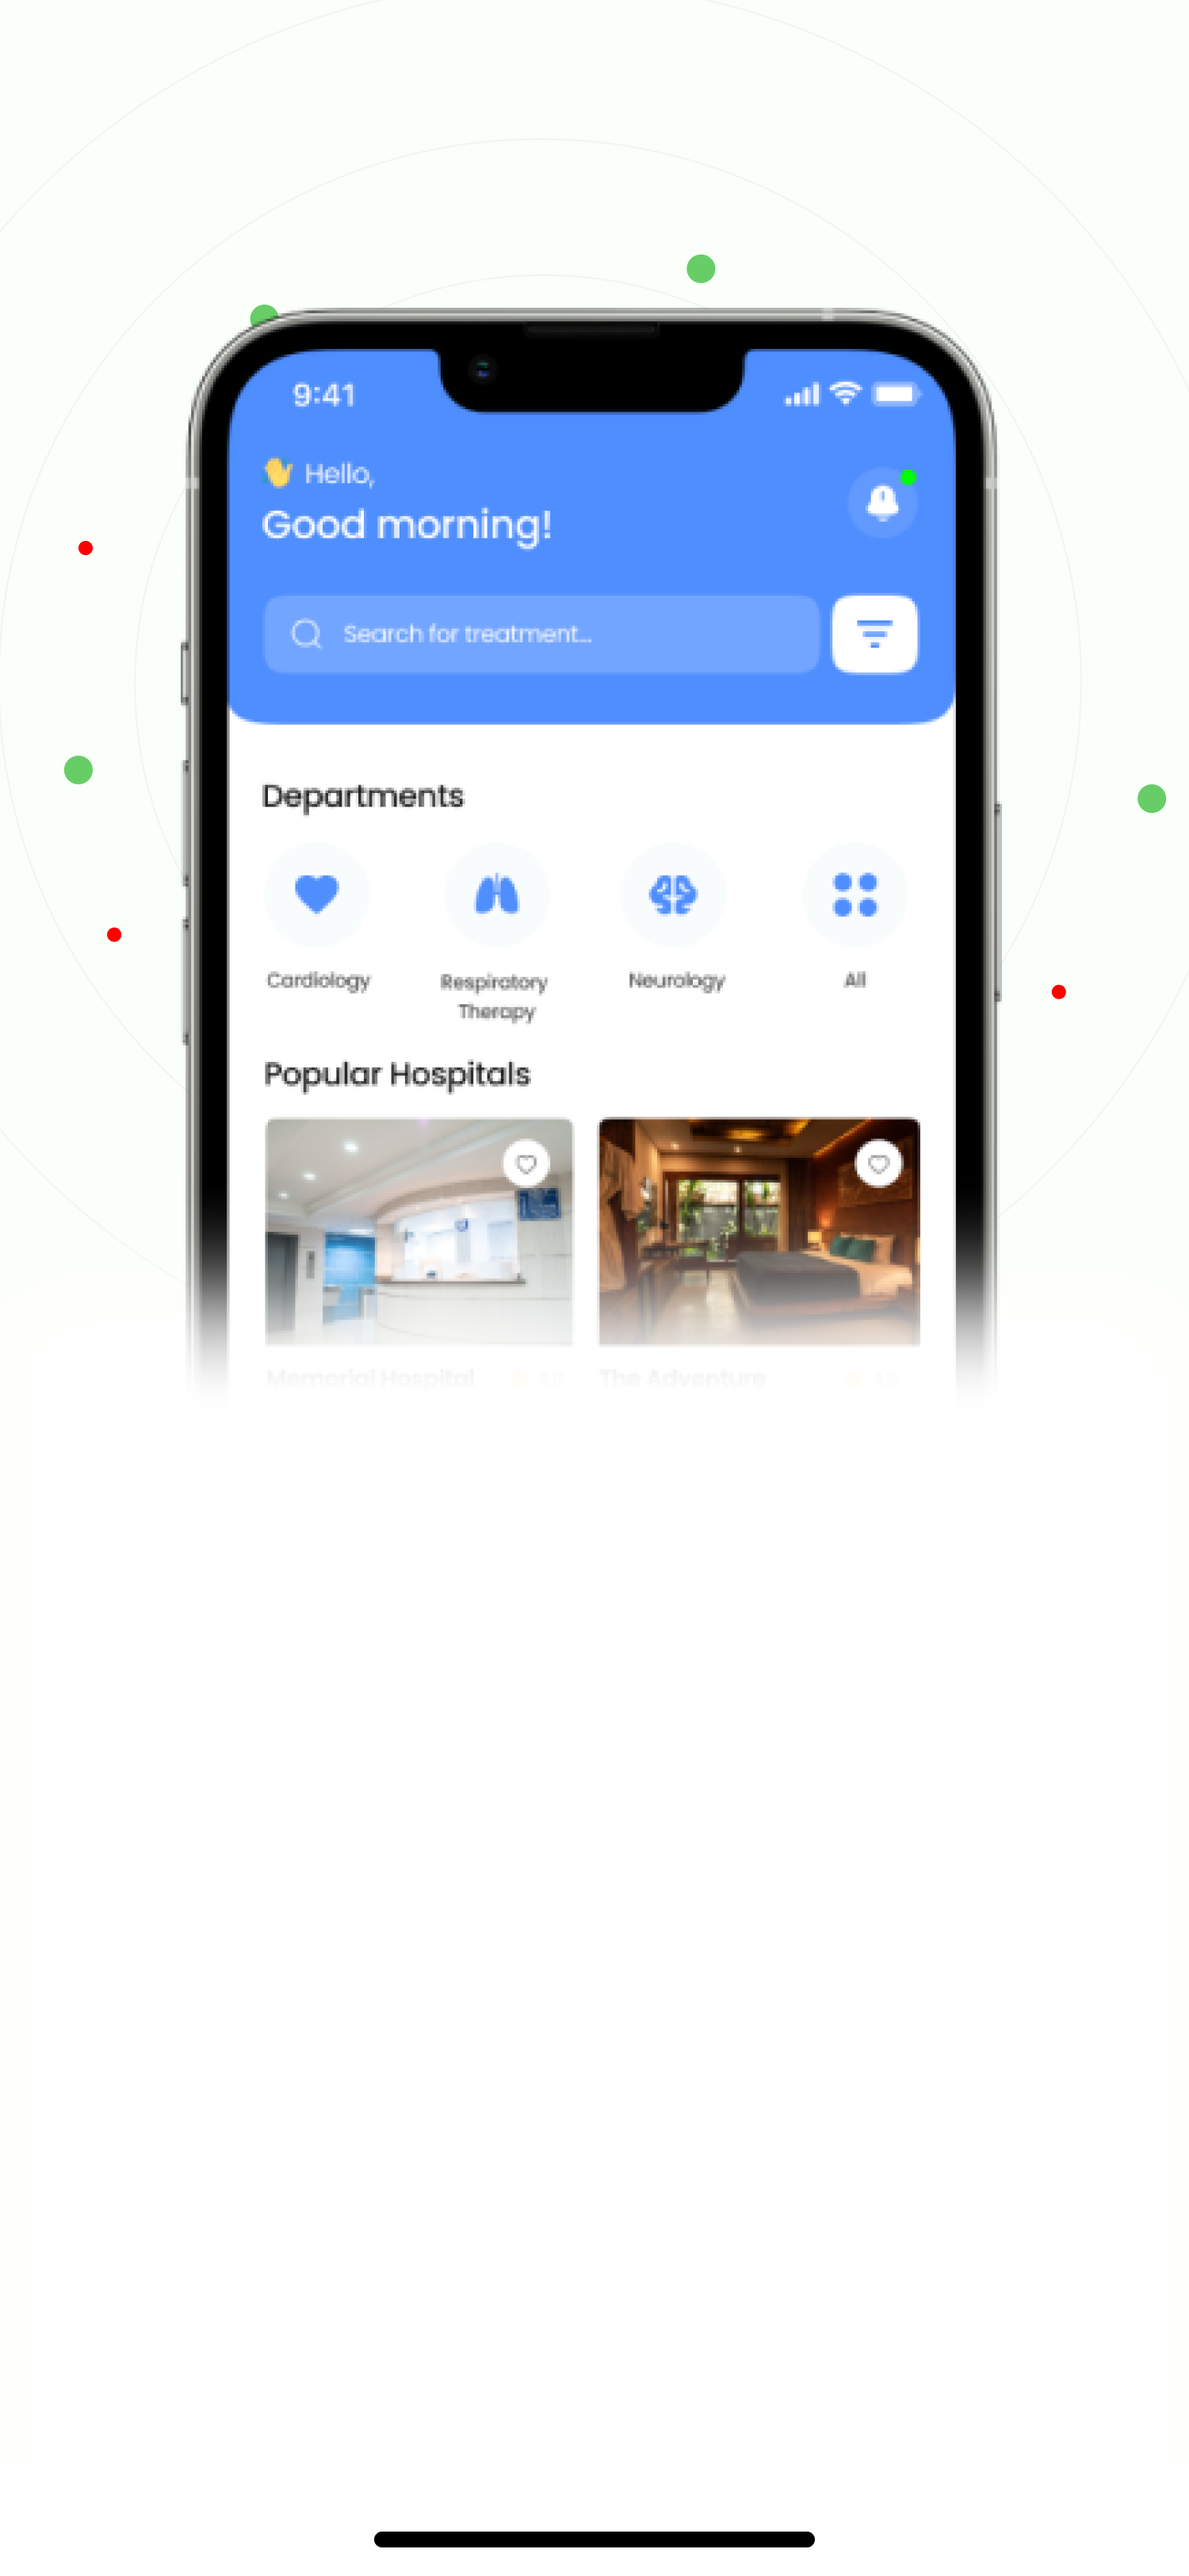
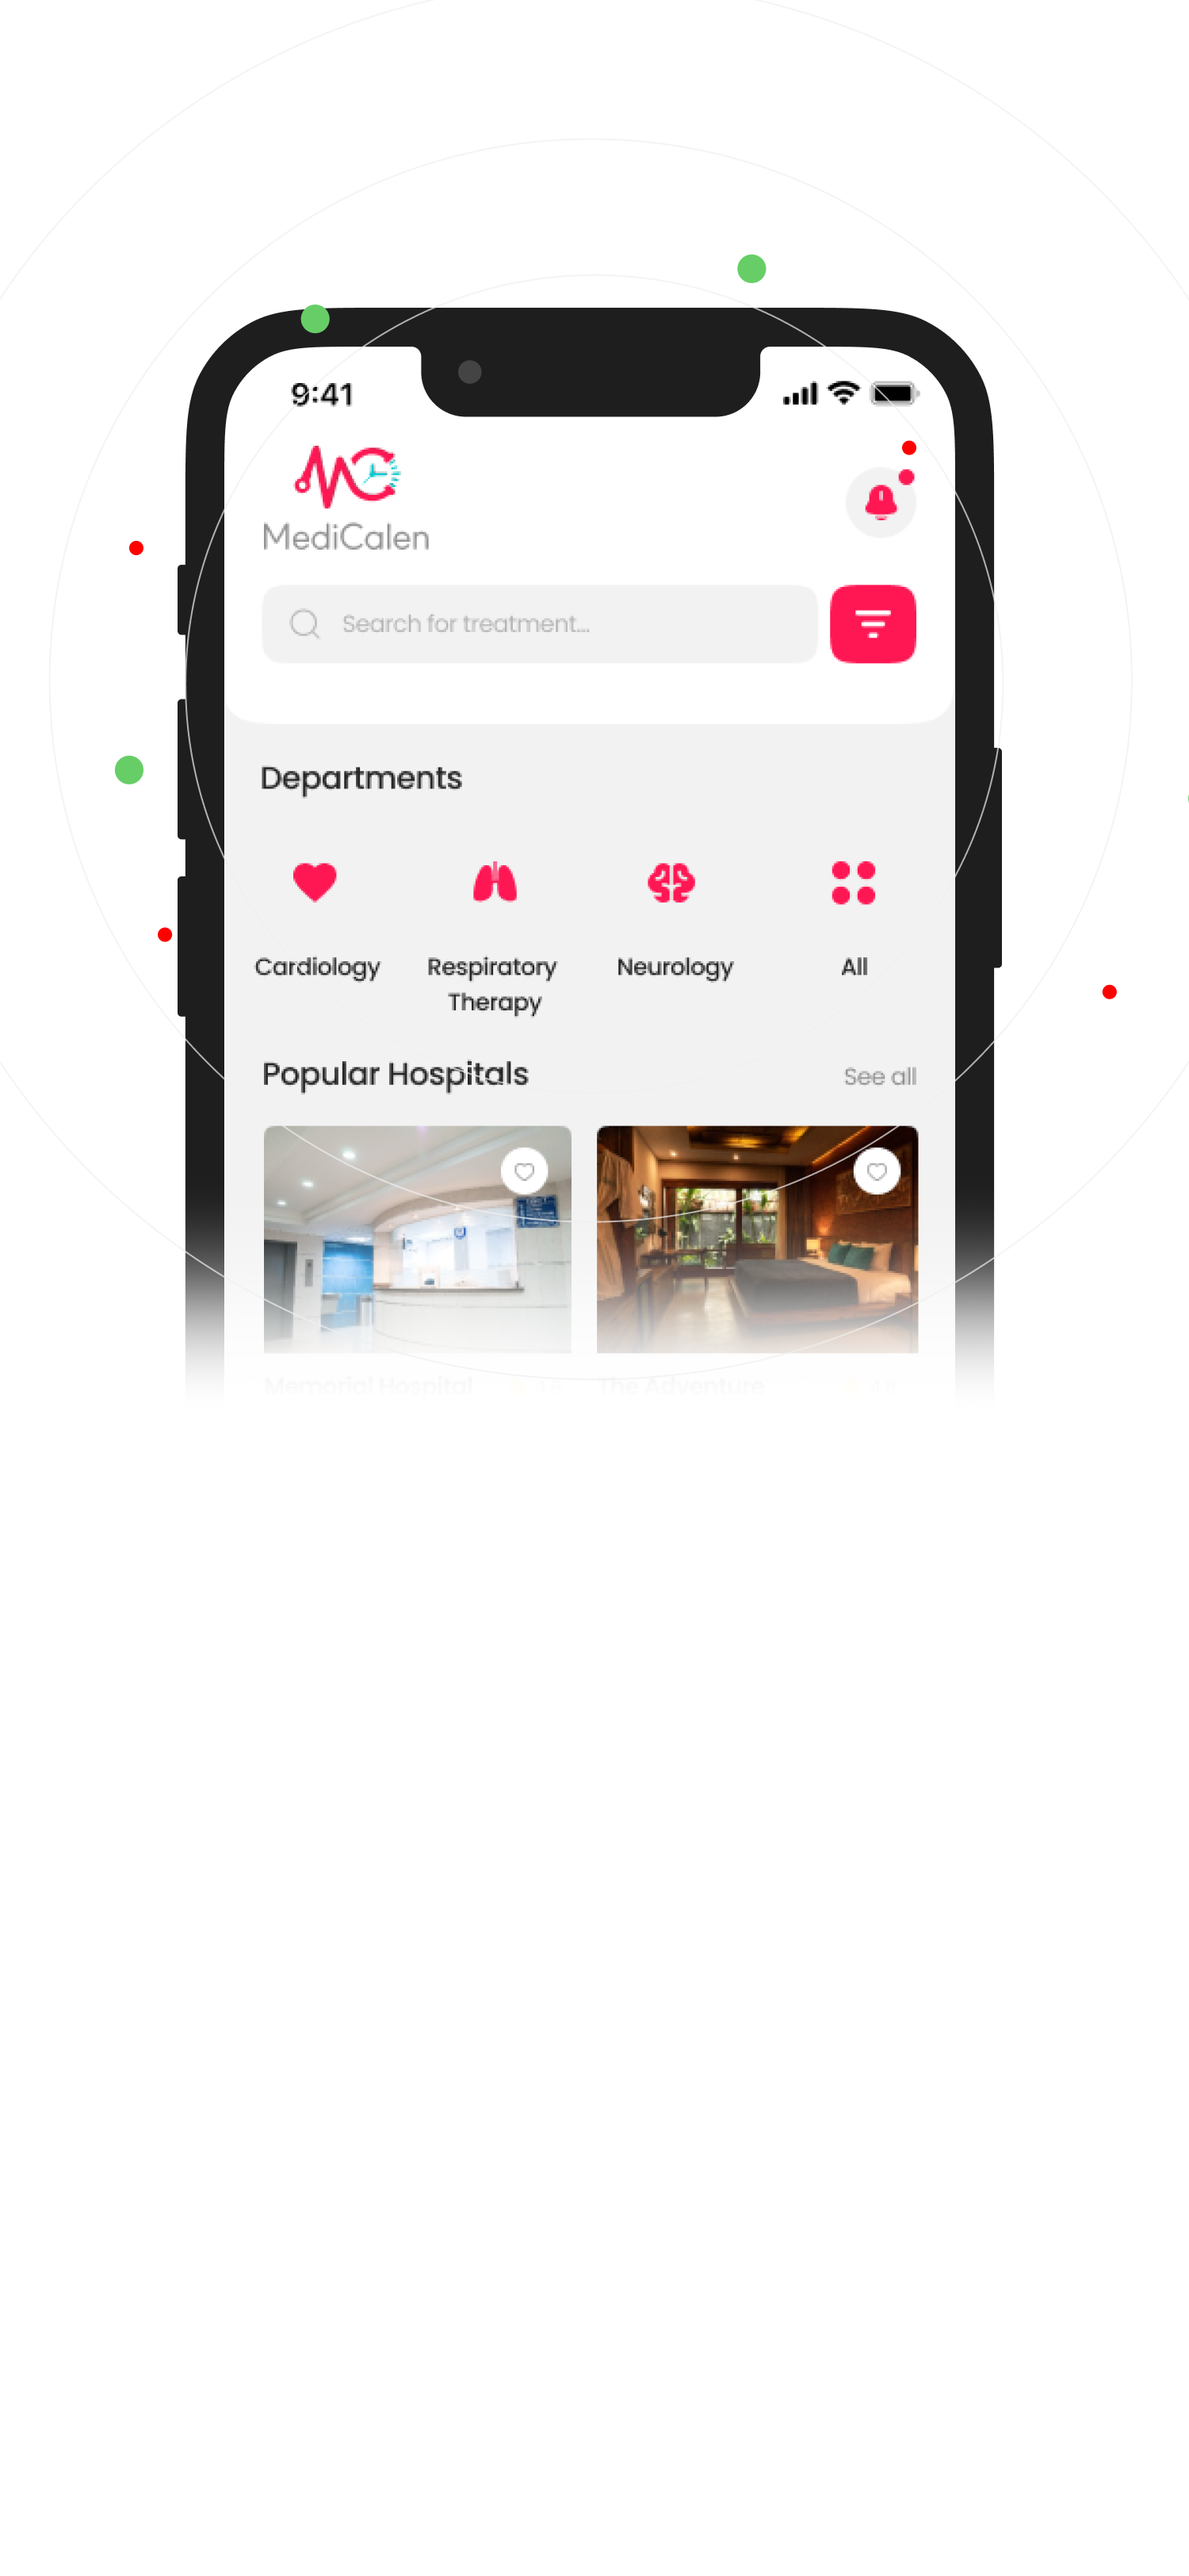
updated

diff --git a/lib/constants/app_images.dart b/lib/constants/app_images.dart
@@ -26,6 +26,10 @@ class Assets {
   /// assets/images/app_logo_5.png
   static const String imagesAppLogo5 = "assets/images/app_logo_5.png";
 
+  /// Assets for imagesAppLogo6
+  /// assets/images/app_logo_6.png
+  static const String imagesAppLogo6 = "assets/images/app_logo_6.png";
+
   /// Assets for imagesArbToEngIcon
   /// assets/images/arb_to_eng_icon.svg
   static const String imagesArbToEngIcon = "assets/images/arb_to_eng_icon.svg";

diff --git a/lib/view/widget/sliver_app_bar_widget_first.dart b/lib/view/widget/sliver_app_bar_widget_first.dart
@@ -41,7 +41,7 @@ class SliverAppBarWidegtFirst extends StatelessWidget {
                 height: 30,
                 width: 50,
                 child: CommonImageView(
-                  imagePath: Assets.imagesAppLogo5,
+                  imagePath: Assets.imagesAppLogo6,
                   fit: BoxFit.contain,
                   height: 30,
                   width: 49,

diff --git a/lib/view/screens/home/home.dart b/lib/view/screens/home/home.dart
@@ -412,7 +412,7 @@ class _HomeAppBar extends StatelessWidget {
           horizontal: 15,
         ),
         child: CommonImageView(
-          imagePath: Assets.imagesAppLogo5,
+          imagePath: Assets.imagesAppLogo6,
           fit: BoxFit.contain,
         ),
       ),

diff --git a/lib/view/widget/simple_app_bar.dart b/lib/view/widget/simple_app_bar.dart
@@ -20,7 +20,7 @@ simpleAppBar({required String title}) {
     actions: [
       Center(
         child: CommonImageView(
-          imagePath: Assets.imagesAppLogo5,
+          imagePath: Assets.imagesAppLogo6,
           height: 27,
         ),
       ),
